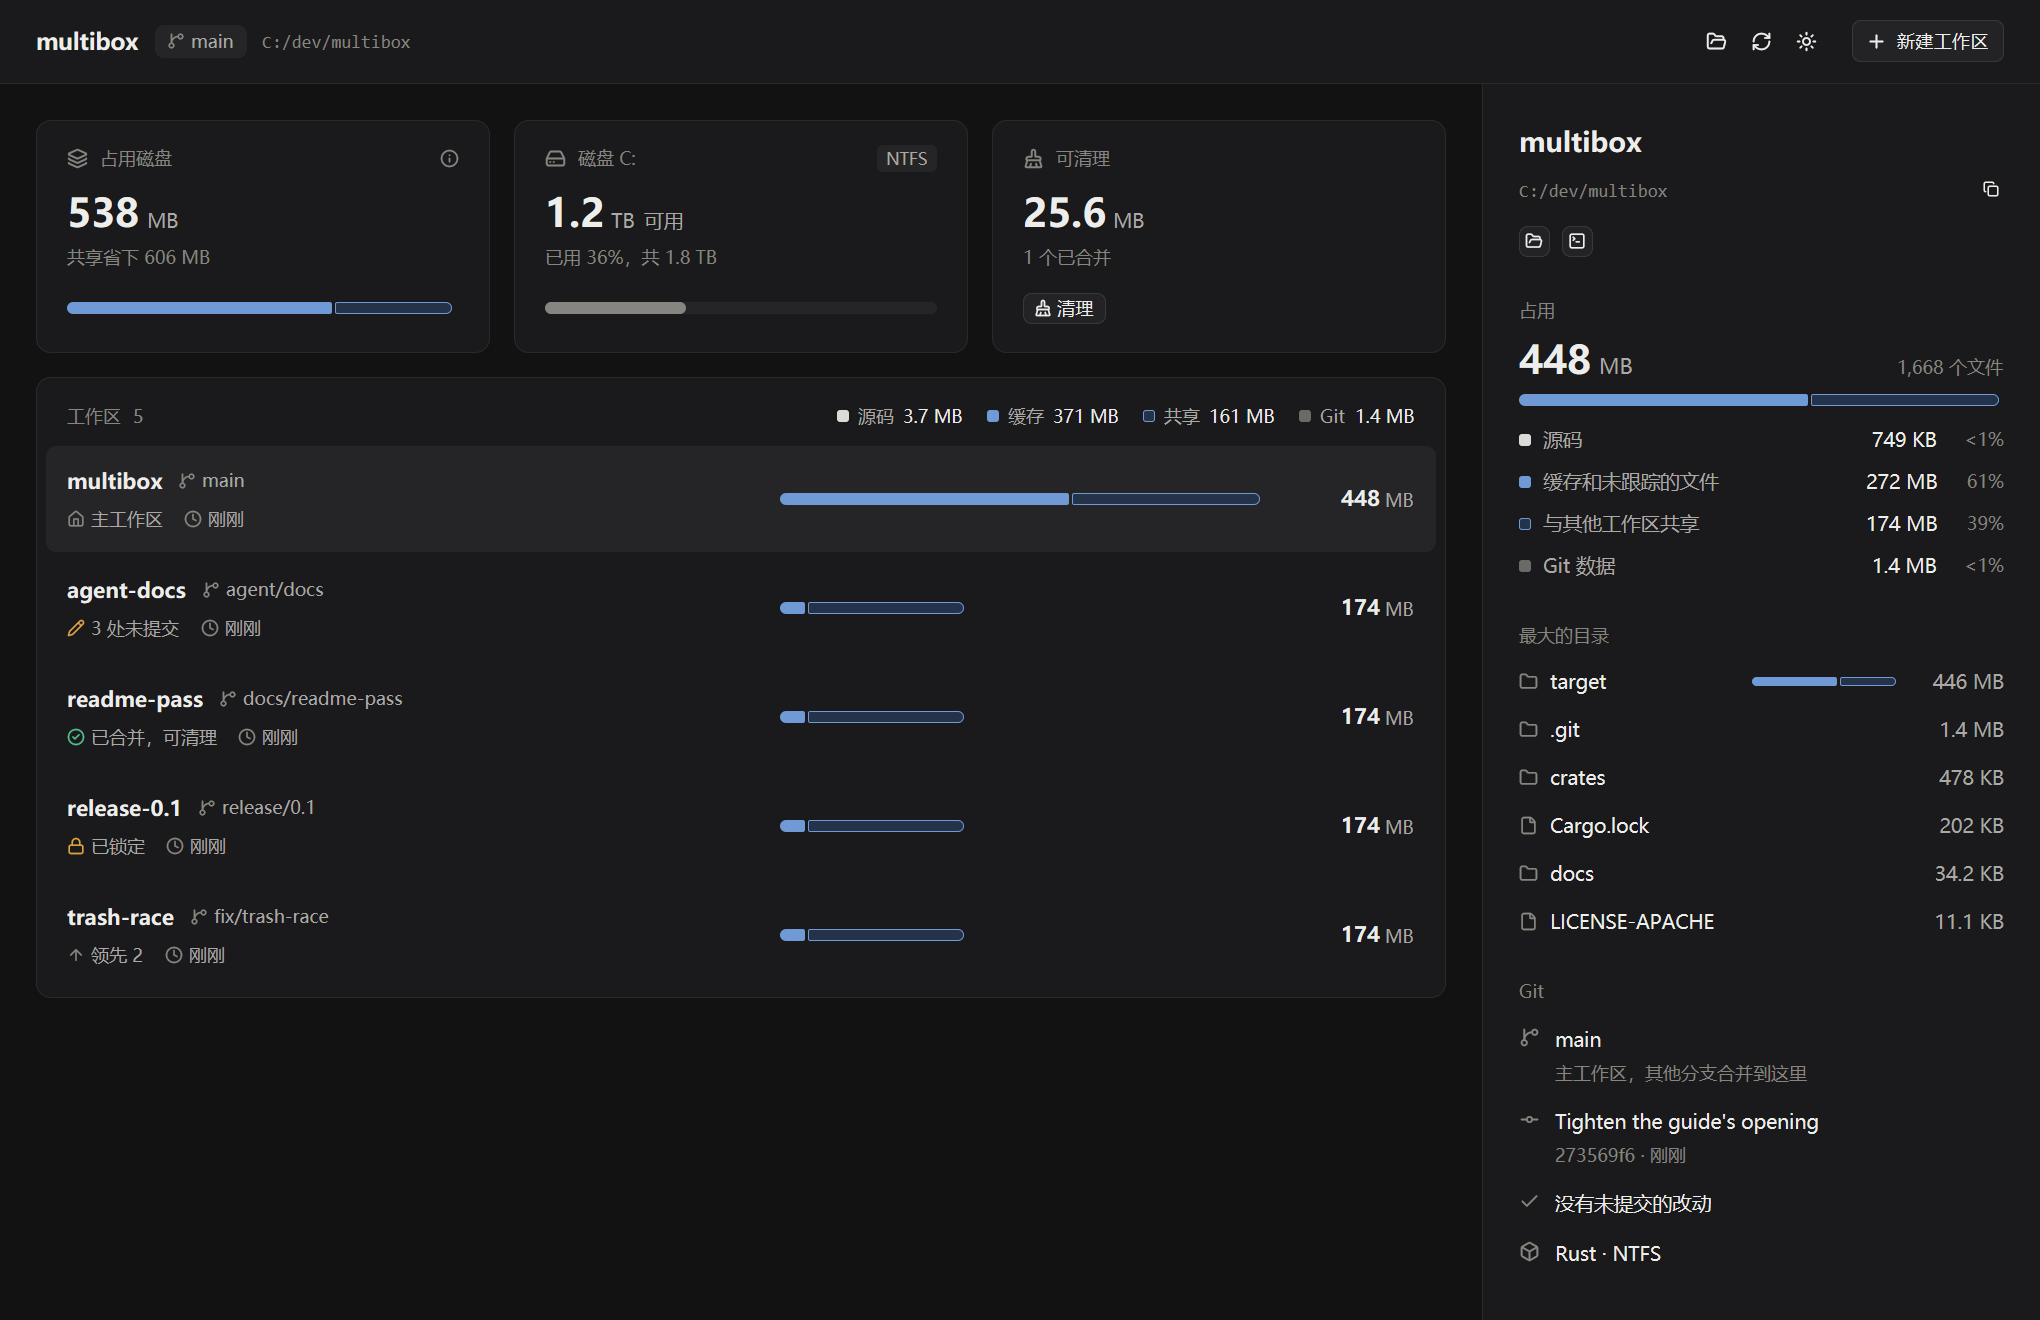
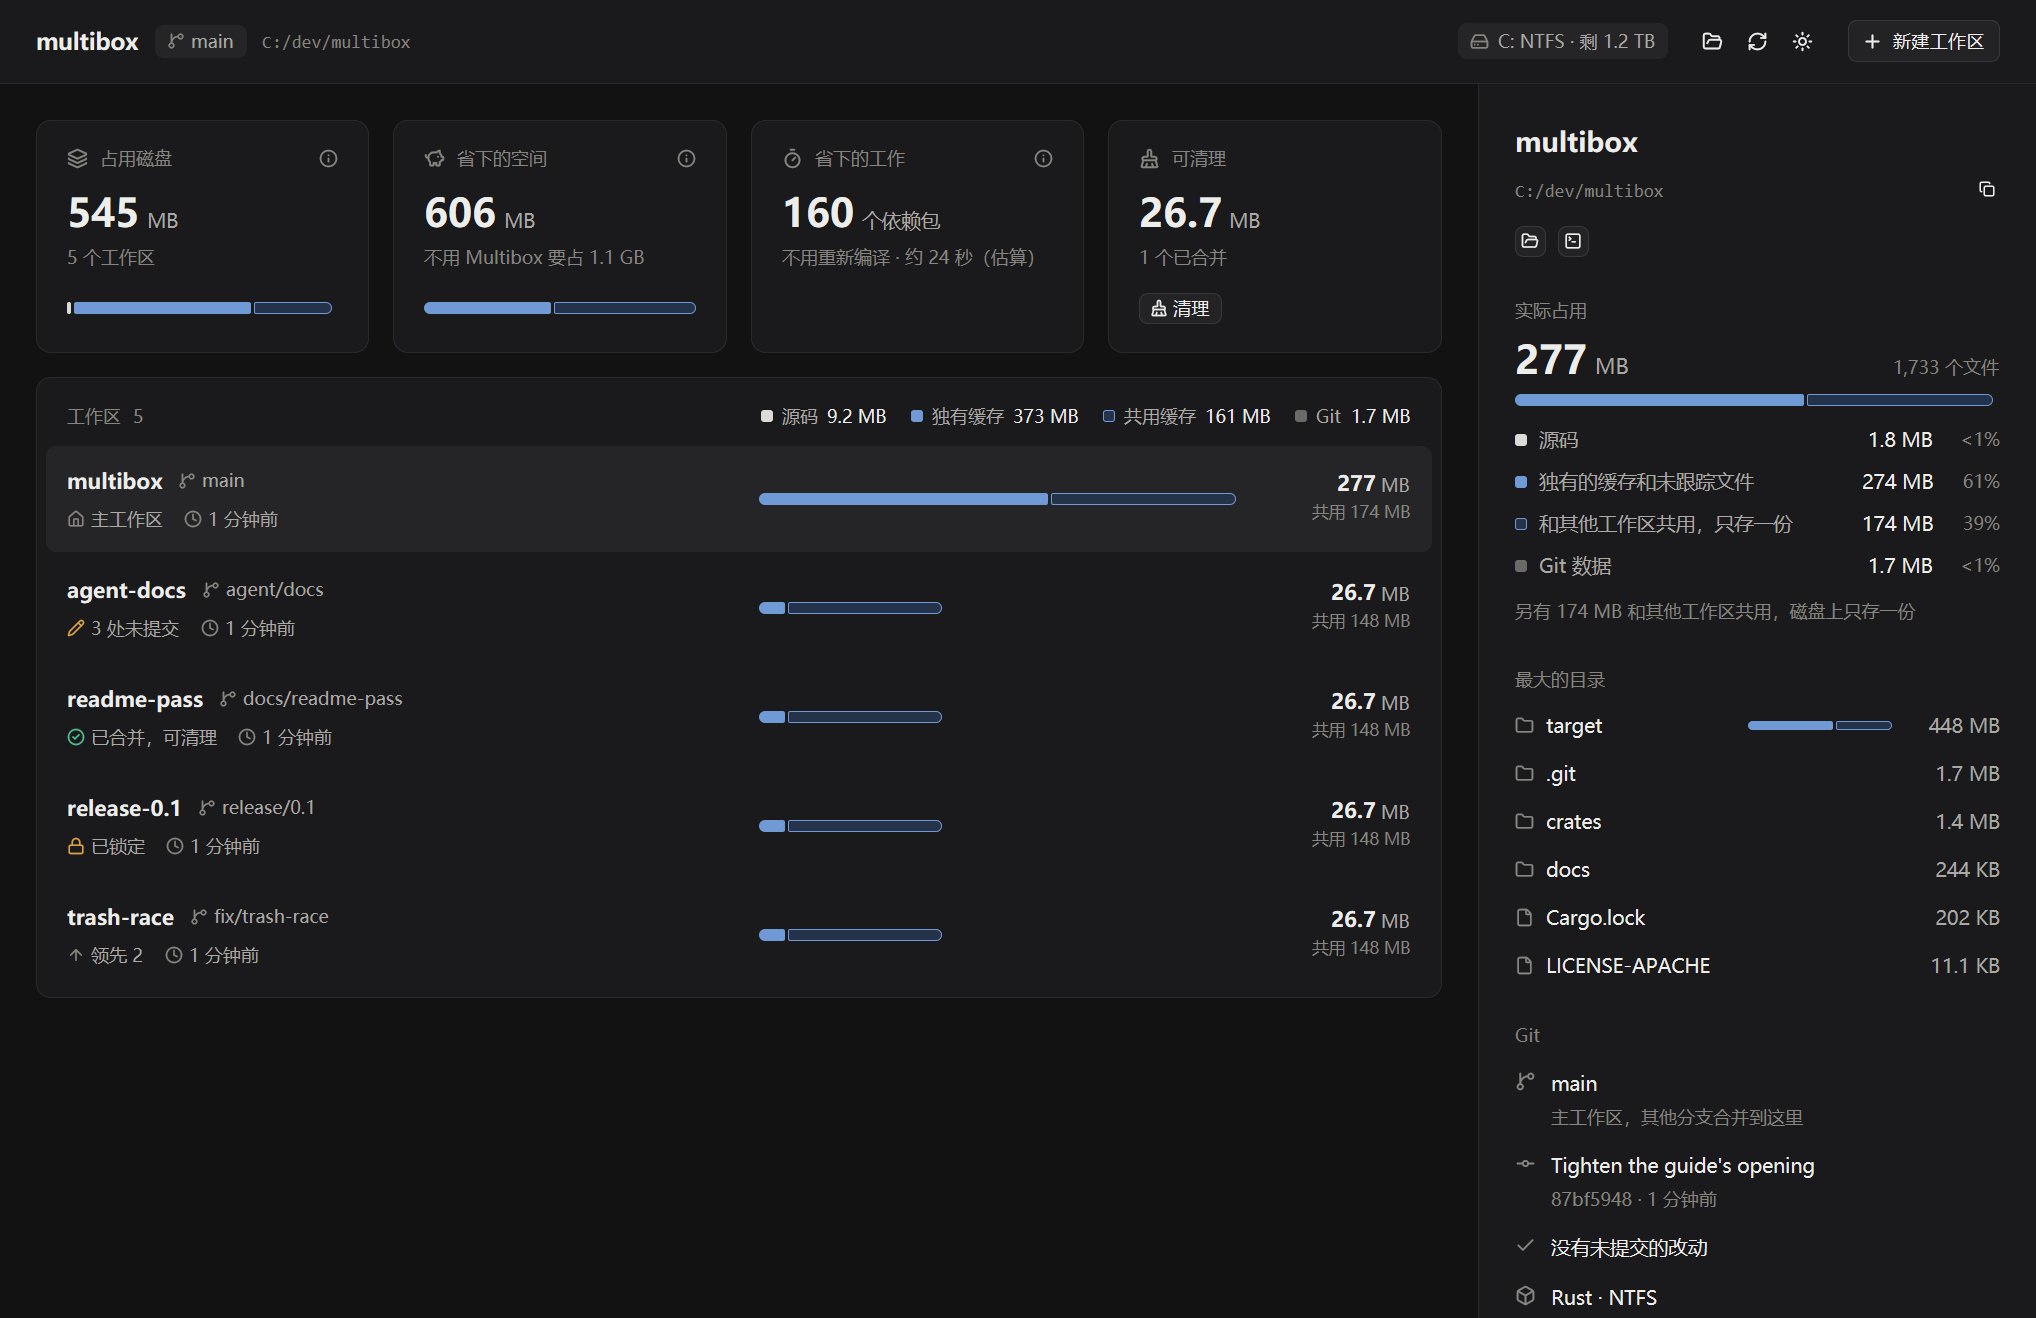
Show the window's savings in the README, with fresh screenshots

diff --git a/README.en.md b/README.en.md
@@ -44,11 +44,12 @@ Every figure and how it was measured: [docs/benchmarks.md](docs/benchmarks.md).
 
 ## The window
 
-`git multibox ui` opens a window showing what each worktree takes on disk,
-where that space goes, and whether it has uncommitted work or is already
-merged. New, finish, remove and lock are buttons, and one cleanup removes
-merged worktrees and what interrupted removals left behind, listing everything
-before it deletes. The window is in Chinese for now.
+`git multibox ui` opens a window showing what each worktree really takes on
+disk, the space and the builds and imports Multibox saved, and whether a
+worktree has uncommitted work or is already merged. New, finish, remove and
+lock are buttons, and one cleanup removes merged worktrees and what
+interrupted removals left behind, listing everything before it deletes. The
+window is in Chinese for now.
 
 <picture>
   <source media="(prefers-color-scheme: dark)" srcset="docs/images/ui-dark.png">

diff --git a/README.md b/README.md
@@ -30,7 +30,7 @@
 
 ## 工作区管理器
 
-`git multibox ui` 打开一个窗口：每个工作区占多少磁盘、空间花在哪、有没有没提交的改动、是不是已经合并。新建、合并、删除、锁定都能直接点；已合并的工作区和中断留下的残留目录可以一键清理，删之前都会先列出要删什么。
+`git multibox ui` 打开一个窗口：每个工作区实际占多少磁盘，Multibox 省下了多少空间、多少次编译和导入，有没有没提交的改动，是不是已经合并。新建、合并、删除、锁定都能直接点；已合并的工作区和中断留下的残留目录可以一键清理，删之前都会先列出要删什么。
 
 <picture>
   <source media="(prefers-color-scheme: dark)" srcset="docs/images/ui-dark.png">
